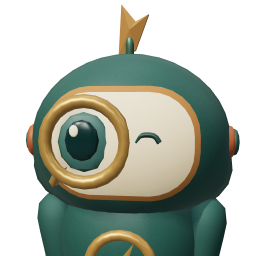
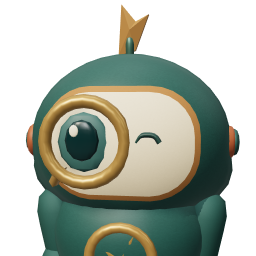
Refine folded volumes and keep robed expressions attached

diff --git a/src/scene/characterGeometry.ts b/src/scene/characterGeometry.ts
@@ -4,7 +4,7 @@ import type { SceneKit } from './primitives';
 export type CharacterForm = 'torso' | 'helmet' | 'owlBody' | 'owlHead' | 'wing' | 'tuft'
   | 'lanternGlass' | 'lanternCap' | 'lanternBase' | 'sphere' | 'bean' | 'detail' | 'limb' | 'ankle' | 'beak' | 'ring' | 'heart'
   | 'book' | 'cloak' | 'cape' | 'capePanel' | 'feather' | 'toe' | 'paperBody' | 'paperEchoHead' | 'paperQuillHead' | 'paperWing' | 'paperTail' | 'paperDisc' | 'paperDiscL' | 'pageFold' | 'hoodTip' | 'scroll'
-  | 'spiritBody' | 'spiritHood' | 'spiritRelayHood' | 'merchantTorso' | 'swiftBody' | 'swiftHead' | 'swiftWingL' | 'swiftWingR'
+  | 'spiritBody' | 'spiritHood' | 'spiritRelayHood' | 'merchantTorso' | 'swiftBody' | 'swiftHead' | 'swiftTail' | 'swiftWingL' | 'swiftWingR'
   | 'owlBrowL' | 'owlBrowR' | 'featherFanL' | 'featherFanR' | 'breastFeathers' | 'hexGlass' | 'hexCap' | 'fineRing' | 'compassStar' | 'compassNeedle' | 'paperBeak' | 'pageCorner' | 'merchantBase' | 'spiritFigure' | 'spiritLens' | 'spiritRelay';
 export type CharacterFinish = 'clay' | 'glaze' | 'ink' | 'brass' | 'amber' | 'paper' | 'feather';
 type Tuple = [number, number, number];
@@ -52,10 +52,10 @@ function smoothDeformedSurface(geometry: THREE.BufferGeometry): THREE.BufferGeom
 }
 
 /** Densely sample only broad clay contours; paper folds and metal lips stay authored. */
-function softLathe(profile: Array<[number, number]>): THREE.BufferGeometry {
+function softLathe(profile: Array<[number, number]>, rows=16, columns=24): THREE.BufferGeometry {
   const curve = new THREE.SplineCurve(profile.map(([radius, y]) => new THREE.Vector2(radius, y)));
-  const points = curve.getPoints(16).map(point => [Math.max(0, point.x), point.y] as [number, number]);
-  return lathe(points);
+  const points = curve.getPoints(rows).map(point => [Math.max(0, point.x), point.y] as [number, number]);
+  return lathe(points,columns);
 }
 
 /** A soft, slightly squared helmet, with a continuous crown and cheeks. */
@@ -140,11 +140,11 @@ function smallHeart(): THREE.BufferGeometry {
 function cape(): THREE.BufferGeometry {
   const vertices: number[] = [], indices: number[] = [], columns = 18, rows = 6;
   for (let row = 0; row <= rows; row++) {
-    const t = row / rows, radius = .31 + .15 * t,bound=.20+1.05*t;
+    const t = row / rows, radius = .31 + .15 * t,bound=.20+1.05*Math.sin(t*Math.PI/2);
     for (let column = 0; column <= columns; column++) {
       const angle = bound + column / columns * (Math.PI*2-bound*2);
       vertices.push(Math.sin(angle) * radius, .29 - t * .72,
-        Math.cos(angle) * radius * .80 + .08);
+        Math.cos(angle) * radius * .80 + .08 + .014*Math.sin(angle*5)*Math.sin(Math.PI*t));
       if (row < rows && column < columns) {
         const a = row * (columns + 1) + column, b = a + 1, c = a + columns + 1, d = c + 1;
         indices.push(a, d, b, a, c, d);
@@ -190,9 +190,39 @@ function swiftHead(): THREE.BufferGeometry {
 }
 
 function swiftWing(): THREE.BufferGeometry {
-  const vertices: Tuple[]=[[0,.10,.10],[.07,.28,-.40],[.09,-.29,-.31],[.11,-.10,-.005],[.14,.005,-.06],[-.009,.10,.10],[.061,.28,-.40],[.081,-.29,-.31],[.101,-.10,-.005]];
+  const vertices: Tuple[]=[[0,.10,.10],[.07,.27,-.36],[.09,-.23,-.25],[.11,-.10,-.005],[.14,.005,-.06],[-.009,.10,.10],[.061,.27,-.36],[.081,-.23,-.25],[.101,-.10,-.005]];
   return polyhedron(vertices,[[0,4,1],[1,4,2],[2,4,3],[3,4,0],[5,6,7,8],[0,1,6,5],[1,2,7,6],[2,3,8,7],[3,0,5,8]],
     ['#e0b15e','#d5a24e','#bd893b','#e5bc74','#3c6d68','#b38948','#47736b','#3b6e65','#c59854']);
+}
+
+/** Folded volumes close into a tapered back, not an extruded cardboard slab. */
+function paperOwlHead(quill=false): THREE.BufferGeometry {
+  const outline:Array<[number,number]>=quill?
+    [[-.41,-.26],[-.30,-.45],[.22,-.45],[.47,-.13],[.45,.24],[.54,.51],[.19,.34],[-.08,.39],[-.48,.53],[-.44,.14]]:
+    [[-.44,-.22],[-.27,-.43],[.25,-.44],[.47,-.10],[.42,.28],[.23,.48],[-.23,.44],[-.47,.14]];
+  const vertices:Tuple[]=outline.map(([x,y])=>[x,y,.30+(.4-Math.abs(x))*.12]);
+  vertices.push(...outline.map(([x,y])=>[x*.87,y*.88,-.29] as Tuple));
+  vertices.push([-.025,.06,.52],[0,.03,-.39]);
+  const n=outline.length,faces:number[][]=[];
+  for(let i=0;i<n;i++){const j=(i+1)%n;faces.push([i,j,2*n],[i,n+i,n+j],[i,n+j,j],[n+j,n+i,2*n+1]);}
+  return polyhedron(vertices,faces);
+}
+
+function paperOwlBody(): THREE.BufferGeometry {
+  const rings:Tuple[][]=[
+    [[-.26,-.5,.17],[.25,-.5,.17],[.39,-.36,-.04],[.21,-.5,-.28],[-.22,-.5,-.28],[-.42,-.34,-.04]],
+    [[-.40,-.03,.34],[.39,-.08,.34],[.50,.02,-.06],[.26,-.03,-.43],[-.29,.03,-.43],[-.50,.08,-.08]],
+    [[-.27,.34,.27],[.26,.35,.27],[.34,.36,-.03],[.17,.36,-.29],[-.20,.35,-.30],[-.35,.32,-.02]],
+  ];
+  const vertices=rings.flat();vertices.push([0,.49,0],[0,-.5,-.04],[-.04,-.24,.36],[-.04,.20,.38]);
+  const faces:number[][]=[];
+  for(let r=0;r<2;r++)for(let i=0;i<6;i++){
+    const j=(i+1)%6;
+    if(i===0){const centre=20+r;faces.push([r*6,r*6+1,centre],[r*6+1,(r+1)*6+1,centre],[(r+1)*6+1,(r+1)*6,centre],[(r+1)*6,r*6,centre]);}
+    else faces.push([r*6+i,r*6+j,(r+1)*6+j],[(r+1)*6+j,(r+1)*6+i,r*6+i]);
+  }
+  for(let i=0;i<6;i++){const j=(i+1)%6;faces.push([12+i,12+j,18],[j,i,19]);}
+  return polyhedron(vertices,faces);
 }
 
 function reflect(geometry: THREE.BufferGeometry): THREE.BufferGeometry {
@@ -220,10 +250,10 @@ function spiritHood(relay = false): THREE.BufferGeometry {
 function spiritFigure(variant:'compass'|'lens'|'relay'): THREE.BufferGeometry {
   const profile: Array<[number,number]>=[[0,-.617],[.42,-.617],[.49,-.51],[.48,-.30],[.40,-.08],[.29,.21],[.31,.32],[.36,.46],[.33,.62],[.22,.75]];
   profile.push(...(variant==='compass'?[[.12,.84],[.055,.93],[0,1.03]]:[[.09,.80],[0,.81]]) as Array<[number,number]>);
-  const geometry=softLathe(profile),p=geometry.attributes.position;
+  const geometry=softLathe(profile,32,32),p=geometry.attributes.position;
   for(let i=0;i<p.count;i++){
     const y=p.getY(i),hem=Math.pow(Math.max(0,(.23-y)/.847),1.25);
-    const theta=Math.atan2(p.getX(i),p.getZ(i)),fold=.012*hem*Math.sin(theta*3+y*5);
+    const theta=Math.atan2(p.getX(i),p.getZ(i)),fold=.018*hem*Math.sin(theta*3+y*5);
     p.setXYZ(i,p.getX(i)+Math.sin(theta)*fold+(variant==='compass'?0:variant==='lens'?-.17:.17)*hem,y,p.getZ(i)+Math.cos(theta)*fold);
   }
   return smoothDeformedSurface(geometry);
@@ -254,13 +284,13 @@ function featherFan(sign: number, breast = false): THREE.BufferGeometry {
   for (let featherIndex = 0; featherIndex < count; featherIndex++) {
     const row = Math.floor(featherIndex / 3), column = featherIndex % 3;
     const x = breast ? (column - 1) * .135 : sign * (column * .045 - .035);
-    quaternion.setFromEuler(new THREE.Euler(0, breast ? -x * 1.3 : 0, breast ? -x * .55 : -sign * (.20 + column * .18)));
-    matrix.compose(new THREE.Vector3(x, breast ? .13 - row * .11 - Math.abs(x)*.18 : .12 - row * .11,
+    quaternion.setFromEuler(new THREE.Euler(0, breast ? -x * 1.3 : 0, breast ? -x * 2.0 : -sign * (.20 + column * .18)));
+    matrix.compose(new THREE.Vector3(x, breast ? .16 - row * .13 - Math.abs(x)*.18 : .12 - row * .11,
       breast ? .012 - Math.abs(x)*.34 - row*.016 : .102 + column*.012 - row*.018), quaternion,
-    new THREE.Vector3(breast ? .215 : .14, breast ? .225 : .30, .036)); normalMatrix.getNormalMatrix(matrix);
+    new THREE.Vector3(breast ? .205 : .14, breast ? .265 : .30, breast?.013:.022)); normalMatrix.getNormalMatrix(matrix);
     for (let i = 0; i < source.attributes.position.count; i++) {
       point.fromBufferAttribute(source.attributes.position, i).applyMatrix4(matrix); normal.fromBufferAttribute(source.attributes.normal, i).applyMatrix3(normalMatrix).normalize();
-      if(breast)point.z=.285*Math.sqrt(Math.max(.04,1-(point.x/.37)**2-(point.y/.52)**2))+.028+point.z-(.012-Math.abs(x)*.34-row*.016);
+      if(breast)point.z=.285*Math.sqrt(Math.max(.04,1-(point.x/.37)**2-(point.y/.52)**2))+.013+point.z-(.012-Math.abs(x)*.34-row*.016);
       vertices.push(point.x, point.y, point.z); normals.push(normal.x, normal.y, normal.z);
     }
   }
@@ -293,9 +323,9 @@ function makeGeometry(form: CharacterForm): THREE.BufferGeometry {
     case 'capePanel': return folded([[-.5, .5], [.5, .20], [.45, -.5], [-.15, -.09]], .08, .018);
     case 'feather': return feather();
     case 'toe': return new THREE.SphereGeometry(.5, 8, 6);
-    case 'paperBody': return folded([[-.34, -.5], [.31, -.5], [.5, -.13], [.38, .31], [0, .5], [-.4, .29], [-.5, -.1]], .78, .13);
-    case 'paperEchoHead': return folded([[-.35,-.40],[.28,-.5],[.50,-.08],[.43,.33],[.26,.53],[-.29,.47],[-.50,.16]],.78,.13);
-    case 'paperQuillHead': return folded([[-.36,-.4],[.30,-.45],[.50,-.08],[.48,.29],[.61,.52],[.22,.38],[-.12,.42],[-.60,.58],[-.43,.1],[-.50,-.16]],.78,.13);
+    case 'paperBody': return paperOwlBody();
+    case 'paperEchoHead': return paperOwlHead();
+    case 'paperQuillHead': return paperOwlHead(true);
     case 'paperWing': return folded([[-.50, .43], [-.18, -.50], [.35, -.34], [.50, .36], [.12, .18]], .16, .14);
     case 'paperTail': return folded([[-.5, -.5], [0, -.26], [.5, -.5], [.27, .5], [-.27, .5]], .12, .07);
     case 'paperDisc': return folded([[-.48,.08],[-.37,.34],[-.12,.49],[.19,.45],[.41,.26],[.49,-.10],[.20,-.50],[-.23,-.43],[-.42,-.22]], .06, .023);
@@ -309,6 +339,7 @@ function makeGeometry(form: CharacterForm): THREE.BufferGeometry {
     case 'merchantTorso': return softLathe([[0, -.50], [.25, -.49], [.32, -.38], [.40, -.16], [.49, .16], [.50, .32], [.42, .46], [0, .5]]);
     case 'swiftBody': return polyhedron([[0,-.25,.13],[-.13,-.17,.05],[.13,-.17,.05],[-.16,.12,0],[.16,.12,0],[0,.24,.08],[0,-.08,-.29],[0,-.17,-.20],[0,.04,.20]],[[0,1,8],[1,3,8],[3,5,8],[5,4,8],[4,2,8],[2,0,8],[1,7,6,3],[3,6,5],[5,6,4],[4,6,7,2],[0,2,7,1]]);
     case 'swiftHead': return swiftHead();
+    case 'swiftTail': return polyhedron([[0,.09,.09],[-.09,.07,.03],[.09,.07,.03],[-.16,-.11,-.28],[.16,-.11,-.28],[0,-.03,-.19],[0,.022,-.12]],[[0,1,3,6],[0,6,4,2],[3,5,6],[4,6,5],[0,2,1],[1,2,4,5,3]],['#cda24d','#dfb65d','#386a65','#386a65','#bd964c','#b88b39']);
     case 'swiftWingL': return reflect(makeGeometry('swiftWingR'));
     case 'swiftWingR': return swiftWing();
     case 'paperBeak': return polyhedron([[-.065,-.025,0],[.065,-.025,0],[0,.035,.24],[0,.065,0],[0,-.04,.19]],[[0,3,2],[3,1,2],[0,2,4],[2,1,4],[0,4,1],[0,1,3]]);
@@ -522,17 +553,39 @@ export function characterEyeArc(kit: SceneKit, parent: THREE.Object3D, color: st
 }
 
 /** Stamp a thin ornamental relief onto a curved shell once, never per frame. */
-export function fitCharacterRelief(mark: THREE.Object3D, shell: THREE.Mesh,standOff=.012): void {
+export function fitCharacterRelief(mark: THREE.Object3D, shell: THREE.Mesh,standOff=.012, conformPaper=false): void {
   shell.parent!.updateWorldMatrix(true,true);mark.updateWorldMatrix(true,true);
   const ray=new THREE.Raycaster(),point=new THREE.Vector3(),inverse=new THREE.Matrix4();
   const bounds=new THREE.Box3().setFromObject(mark);
   mark.traverse(object=>{
     const mesh=object as THREE.Mesh;if(!mesh.isMesh)return;
-    const geometry=mesh.geometry.clone(),position=geometry.attributes.position;
+    let geometry=mesh.geometry.clone();
+    if(conformPaper) {
+      if(geometry.index){const flat=geometry.toNonIndexed();geometry.dispose();geometry=flat;}
+      // Broad folded face panels cross several planes of the paper head.
+      // Subdivide before projection so an interpolated triangle cannot cut
+      // through a ridge between its otherwise correctly fitted endpoints.
+      for(let level=0;level<2;level++){
+        const next=new THREE.BufferGeometry();
+        for(const [name,attribute] of Object.entries(geometry.attributes)){
+          const values:number[]=[];
+          for(let i=0;i<attribute.count;i+=3){
+            const a=Array.from({length:attribute.itemSize},(_,j)=>attribute.array[i*attribute.itemSize+j]);
+            const b=Array.from({length:attribute.itemSize},(_,j)=>attribute.array[(i+1)*attribute.itemSize+j]);
+            const c=Array.from({length:attribute.itemSize},(_,j)=>attribute.array[(i+2)*attribute.itemSize+j]);
+            const ab=a.map((v,j)=>(v+b[j])/2),bc=b.map((v,j)=>(v+c[j])/2),ca=c.map((v,j)=>(v+a[j])/2);
+            for(const v of [a,ab,ca,ab,b,bc,ca,bc,c,ab,bc,ca])values.push(...v);
+          }
+          next.setAttribute(name,new THREE.Float32BufferAttribute(values,attribute.itemSize));
+        }
+        geometry.dispose();geometry=next;
+      }
+    }
+    const position=geometry.attributes.position;
     inverse.copy(mesh.matrixWorld).invert();
     for(let i=0;i<position.count;i++) {
       point.fromBufferAttribute(position,i).applyMatrix4(mesh.matrixWorld);
-      const relief=Math.max(0,point.z-bounds.min.z);
+      const relief=conformPaper?0:Math.max(0,point.z-bounds.min.z);
       ray.set(new THREE.Vector3(point.x,point.y,2),new THREE.Vector3(0,0,-1));
       const hit=ray.intersectObject(shell,false)[0];
       if(hit) {point.z=hit.point.z+standOff+relief;point.applyMatrix4(inverse);position.setXYZ(i,point.x,point.y,point.z);}

diff --git a/src/scene/proxies.ts b/src/scene/proxies.ts
@@ -69,15 +69,14 @@ export function makeProxy(character: Character, kit: SceneKit): THREE.Group {
     if (id === 'bridge-keeper') {
       // The source is a little standing book, including actual recessed pages,
       // rounded covers, folded corner and the seedling volume held in its arms.
-      sculpt(body, 'book', '#cdb68e', [0, .18, -.025], [.66, 1.16, .43], [0, 0, -.035], 'glaze');
-      sculpt(body, 'book', '#f2e8d1', [.015, .18, .016], [.575, 1.10, .37], [0, 0, -.035]);
+      sculpt(body, 'book', '#cdb68e', [0, .18, -.025], [.70, 1.12, .49], [0, 0, -.035], 'glaze');
+      sculpt(body, 'book', '#f2e8d1', [.015, .18, .016], [.615, 1.07, .43], [0, 0, -.035]);
       [-.125, -.105, -.085].forEach(z => stroke(body, '#bba480', [[.296, -.26, z], [.296, .63, z]], .003, 'clay'));
       // The warm binding stays readable at roster size while the broad pages
       // and face keep Keeper's pale-paper identity.
       stroke(body, '#bda783', [[-.274, -.32, .195], [-.278, .08, .195], [-.263, .62, .195]], .005, 'clay');
-      sculpt(head, 'book', '#e4d7ba', [0, -.025, .216], [.47, .30, .03], undefined, 'clay');
-      eyes(head, .112, .018, .247, true);
-      sculpt(head, 'pageCorner', '#fff4da', [.20, .10, .23], [.21, .22, .10], [0, 0, -.12], 'paper');
+      eyes(head, .112, .018, .276, true);
+      sculpt(head, 'pageCorner', '#fff4da', [.22, .10, .261], [.18, .19, .075], [0, 0, -.12], 'paper');
       limbs(cream, cream, true);
       const book = joint(body, 'seedling-book', [0, -.08, .29]); book.rotation.z = -.06;
       sculpt(book, 'book', '#d8c69b', [0, 0, 0], [.31, .34, .07]);
@@ -122,11 +121,18 @@ export function makeProxy(character: Character, kit: SceneKit): THREE.Group {
       }
       characterSmile(kit, head, '#244c43', .043, .021, [0, -.068, .298]);
       limbs(bodyColor, bodyColor, true, true);
+      // A continuous robed figure has no separate rigid neck. Its expression
+      // pivots the complete sculpture; face and shell cannot drift apart when
+      // a genuine agent intent selects a thinking or filing pose.
+      head.position.y-=body.position.y;body.add(head);
+      const expression=joint(group,'robe-expression',[0,.70,0]);
+      body.position.y-=.70;expression.add(body);
+      data.head=expression;data.headY=.70;data.bodyY=body.position.y;
     } else {
       if (leader) { body.position.y = .70; data.bodyY = .70; head.position.y = 1.30; data.headY = 1.30; }
-      if (id === 'bridge-scout') {body.position.y=.43;data.bodyY=.43;head.position.y=.90;data.headY=.90;}
+      if (id === 'bridge-scout') {body.position.y=.40;data.bodyY=.40;head.position.y=.84;data.headY=.84;}
       if (wayfinder) {body.position.y=id==='intake-jarvis'?.535:.49;data.bodyY=body.position.y;head.position.y=id==='intake-jarvis'?1.02:.95;data.headY=head.position.y;}
-      sculpt(body, wayfinder ? 'torso' : leader ? 'merchantTorso' : id==='bridge-scout'?'owlBody':'torso', bodyColor, [0, -.005, 0], [wayfinder ? .85 : leader ? .79 : .64, leader ? 1.04 : id === 'intake-jarvis' ? 1.06 : wayfinder ? .96 : id==='bridge-scout' ? .68 : .87, wayfinder ? .64 : leader ? .54 : .50], undefined, 'glaze');
+      sculpt(body, wayfinder ? 'torso' : leader ? 'merchantTorso' : id==='bridge-scout'?'owlBody':'torso', bodyColor, [0, -.005, 0], [wayfinder ? .85 : leader ? .79 : id==='bridge-scout'?.70:.64, leader ? 1.04 : id === 'intake-jarvis' ? 1.06 : wayfinder ? .96 : id==='bridge-scout' ? .58 : .87, wayfinder ? .64 : leader ? .54 : id==='bridge-scout'?.56:.50], undefined, 'glaze');
       if(leader) sculpt(body,'merchantBase','#bb673a',[0,-.58,0],[.73,.24,.56],undefined,'glaze');
       sculpt(body, 'limb', wayfinder ? '#b6aa8c' : bodyColor, [0, .35, 0], [.18, .15, .18]);
       const headColor = wayfinder ? cream : bodyColor;
@@ -153,7 +159,7 @@ export function makeProxy(character: Character, kit: SceneKit): THREE.Group {
           if(id==='intake-jarvis') {
             sculpt(body, 'cape', '#263b4d', [0, 0, 0], [1,1,1], undefined, 'clay');
             [-1,1].forEach(sign=>{
-              const trim=Array.from({length:9},(_,i)=>{const t=i/8,r=.31+.15*t,a=.20+1.05*t;return[sign*Math.sin(a)*r,.29-t*.72,Math.cos(a)*r*.80+.089] as [number,number,number]});
+              const trim=Array.from({length:9},(_,i)=>{const t=i/8,r=.31+.15*t,a=.20+1.05*Math.sin(t*Math.PI/2);return[sign*Math.sin(a)*r,.29-t*.72,Math.cos(a)*r*.80+.089+.014*Math.sin(sign*a*5)*Math.sin(Math.PI*t)] as [number,number,number]});
               stroke(body,'#bd985c',trim,.008).name='cape-trim';
             });
           }
@@ -267,8 +273,8 @@ export function makeProxy(character: Character, kit: SceneKit): THREE.Group {
     [-1, 1].forEach(sign => {
       if (navy) curvedFace(kit, head, '#f0e3c6', .365, .43, .013, [sign * .169, -.006, 0], 'clay', [.417, .325, .27],false,undefined,.43,sign);
       else {
-        sculpt(head, sign<0?'paperDiscL':'paperDisc', '#d6b68b', [sign * .157, -.012, .300], [.380, .434, .10], [0, sign * -.17, sign * -.06], 'paper');
-        sculpt(head, sign<0?'paperDiscL':'paperDisc', '#edd6b0', [sign * .157, -.012, .310], [.365, .42, .10], [0, sign * -.17, sign * -.06], 'paper');
+        const disc=sculpt(head, sign<0?'paperDiscL':'paperDisc', '#edd6b0', [sign * .157, -.012, .280], [.365, .42, .022], [0, sign * -.17, sign * -.06], 'paper');
+        fitCharacterRelief(disc,head.children[0] as THREE.Mesh,.012,true);
       }
       if (navy) sculpt(head, 'bean', '#c49b54', [sign * .162, .002, .289], [.193, .220, .051], undefined, 'brass');
       if (id === 'reflection-quill') data.eyes.push(characterEyeArc(kit, head, '#524334', [sign * .162, .015, .355], .050, .033));
@@ -288,7 +294,7 @@ export function makeProxy(character: Character, kit: SceneKit): THREE.Group {
       else sculpt(foot, 'paperWing', gold, [0, 0, 0], [.19, .16, .235], undefined, 'paper');
       data.feet.push(foot);
     });
-    if(navy) sculpt(head,'beak',gold,[0,-.106,.320],[.096,.184,.13],[.25,0,Math.PI],'brass');
+    if(navy) sculpt(head,'paperBeak',gold,[0,-.080,.311],[.77,.85,.67],[.75,0,0],'brass');
     else sculpt(head,'paperBeak',gold,[0,-.077,.330],[.7,.9,.47],[.65,0,0],'paper');
     if (id === 'reflection-quill') {
       kit.mesh(body, 'detailCylinder', '#c99c4a', [.35, .01, .19], [.042, .48, .042], [0, 0, -.35]).name='quill-pencil';
@@ -310,20 +316,20 @@ export function makeProxy(character: Character, kit: SceneKit): THREE.Group {
   } else {
     // Swift's split tail, creased ochre wings and teal folded edge are solid
     // low-poly paper surfaces rather than flattened ceramic spheres.
-    body.position.y = .37; data.bodyY = .37; head.position.y = .68; data.headY = .68;head.scale.set(.80,.72,.80);
-    sculpt(body, 'swiftBody', '#cda44e', [0, .035, 0], [.84, 1.08, .80], [0, 0, 0], 'paper');
+    body.position.y = .32; data.bodyY = .32; head.position.y = .61; data.headY = .61;head.scale.set(.80,.72,.80);
+    sculpt(body, 'swiftBody', '#cda44e', [0, .035, 0], [.98, .86, .86], [0, 0, 0], 'paper');
     sculpt(head, 'swiftHead', '#d9a854', [0, 0, .045], [1, 1, 1], undefined, 'paper');
     [-1, 1].forEach(sign => {
-      const wing = joint(body, sign < 0 ? 'wing_l' : 'wing_r', [sign * .16, .14, -.03]);
+      const wing = joint(body, sign < 0 ? 'wing_l' : 'wing_r', [sign * .14, .14, -.03]);
       sculpt(wing, sign < 0 ? 'swiftWingL' : 'swiftWingR', '#ffffff', [0, 0, 0], [1, 1, 1], undefined, 'paper');data.wings.push(wing);
       const eye = sculpt(head, 'bean', ink, [sign * .113, .070, .125], [.067,.074,.032], [0,sign*Math.PI/2,0], 'ink'); data.eyes.push(eye);
       data.highlights.push(sculpt(head, 'detail', '#fff2d4', [sign*.134,.091,.14], [.008,.019,.019], undefined, 'glaze'));
       const foot = joint(group, sign < 0 ? 'foot_l' : 'foot_r', [sign * .085, .018, .03]);
       [-1,0,1].forEach(toe=>sculpt(foot,'toe','#967140',[toe*.02,0,.02],[.025,.036,.15],[0,toe*.24,0],'brass'));
-      sculpt(foot, 'limb', '#957446', [0, .12, -.025], [.014, .23, .014], undefined, 'clay'); data.feet.push(foot);
+      sculpt(foot, 'limb', '#957446', [0, .085, -.025], [.018, .16, .018], undefined, 'clay'); data.feet.push(foot);
     });
-    sculpt(head,'paperBeak','#a57d40',[0,.045,.190],[.72,.65,.58],undefined,'paper');
-    sculpt(body,'paperTail','#477b73',[0,-.18,-.35],[.20,.27,.035],[Math.PI/2,0,0],'paper');
+    sculpt(head,'paperBeak','#a57d40',[0,.045,.190],[.55,.56,.91],undefined,'paper');
+    sculpt(body,'swiftTail','#ffffff',[0,-.125,-.17],[1,1,1],undefined,'paper');
   }
   data.eyes.forEach(eye => { eye.userData.restEyeY = eye.scale.y; });
   data.feet.forEach(foot => { foot.userData.restFootY = foot.position.y; foot.userData.restFootZ = foot.position.z; });

diff --git a/docs/AVATAR-DAYLIGHT-REVIEW.md b/docs/AVATAR-DAYLIGHT-REVIEW.md
@@ -19,7 +19,8 @@ The reviewer received no requested score and no instructions to approve.
 | Starting models | 4.3/10 | 2.7/10 | D+ |
 | Pass 1 | 6.0/10 | 7.1/10 | C+ |
 | Pass 2 | 6.8/10 | 7.5/10 | B− |
-| Pass 3 | Pending | Pending | Pending |
+| Pass 3 | 7.4/10 | 7.9/10 | 7.7/10 — B |
+| Pass 4 | 7.6/10 | 7.9/10 | 7.8/10 — B |
 
 These are subjective visual judgments, not a pixel-similarity measurement.
 The requested acceptance threshold has not yet been met. Pass 1 restored the
@@ -35,6 +36,12 @@ bird's wing, reshapes the owl's facial discs and Beacon's speech-bubble face,
 and distinguishes cool dawn from amber sunset. Portrait exports are rendered
 at twice their final dimensions then downsampled; this does not affect live
 scene cost. All 252 tests and the production build pass for this submission.
+Pass 4 reshapes Scout and Keeper, thins the navy owl's feathers, joins the
+paper head and body volumes, adds Swift's swept tail, and keeps continuous
+robed faces attached during real gestures. All 253 tests and the build pass.
+The independent review still finds the paper construction uneven, HR cloaks
+too plain, and the intake cape insufficiently dimensional. Nighttime dark
+surfaces need more separation. The acceptance threshold remains unmet.
 
 ## Local-clock atmosphere
 
@@ -63,14 +70,21 @@ test suites were stopped during the samples.
 | Pass 2 night | 60.00 | 3.2 ms | 94 | 322,662 |
 | Pass 3 noon | 59.99 | 3.8 ms | 86 | 319,168 |
 | Pass 3 night | 60.00 | 3.8 ms | 86 | 319,168 |
+| Pass 4 noon | 59.80 | 1.8 ms | 86 | 324,476 |
+| Pass 4 night | 60.00 | 1.6 ms | 86 | 324,476 |
 
 The static scene returns to zero scheduled rendering fps. Submission timing is
 JavaScript/renderer time, **not GPU time**. The measurements preserve displayed
-cadence but do not show identical CPU cost, native WebKit performance, battery
+cadence; sample-to-sample submission variation means they do not establish
+identical CPU cost, native WebKit performance, battery
 life, or sustained thermal behavior. Those claims would need separate evidence.
 The extra portrait-only contact pass is baked offline and adds no live pass.
 Character meshes remain under 9,000 triangles each and within tested motor
 clearances. Grain textures and geometry are scene-owned and reused.
+
+At 390 × 844, the dark app has equal client/scroll widths of 390 pixels. Close
+zoom reveals the optional mist invitation, and both observer perspectives
+switch correctly. The tested desktop console reports no runtime errors.
 
 The dev-only `tools/graphics-lab.html` and `tools/clock-review.html?hour=23`
 provide repeatable performance and screenshot fixtures. They are not linked
